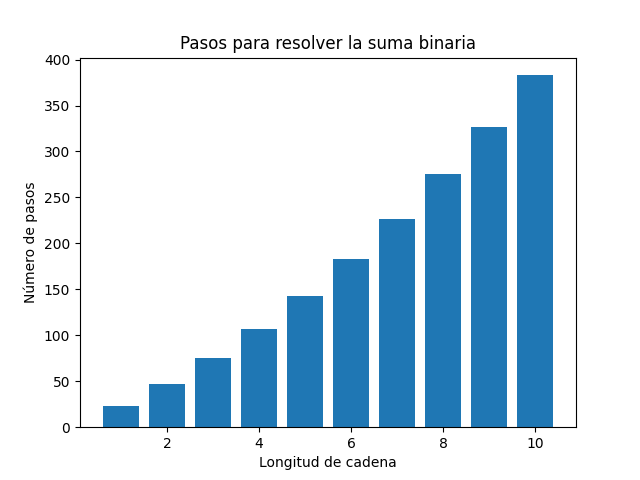
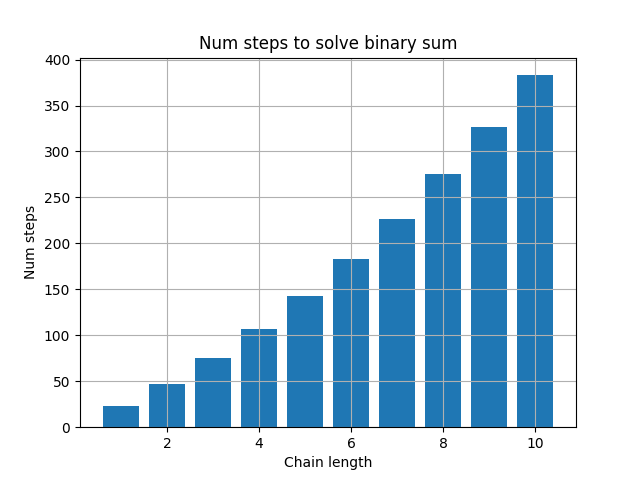
Graficas generadas con éxito

diff --git a/grafica.py b/grafica.py
@@ -41,14 +41,15 @@ def element_to_graph(file_name):
 
 import matplotlib
 import matplotlib.pyplot as plt
-x,y = element_to_graph('time.txt')
+x,y = element_to_graph('steps.txt')
 fig, ax = plt.subplots()
 #Colocamos una etiqueta en el eje Y
-ax.set_ylabel('Tiempo (s)')
+ax.set_ylabel('Num steps')
 #Colocamos una etiqueta en el eje X
-ax.set_xlabel('Longitud de cadena')
-ax.set_title('Tiempo para resolver la suma binaria')
+ax.set_xlabel('Chain length')
+ax.set_title('Num steps to solve binary sum')
 #Creamos la grafica de barras utilizando 'paises' como eje X y 'ventas' como eje y.
 plt.bar(x, y)
+plt.grid()
 #plt.savefig('barras_simple.png')
 plt.show()
